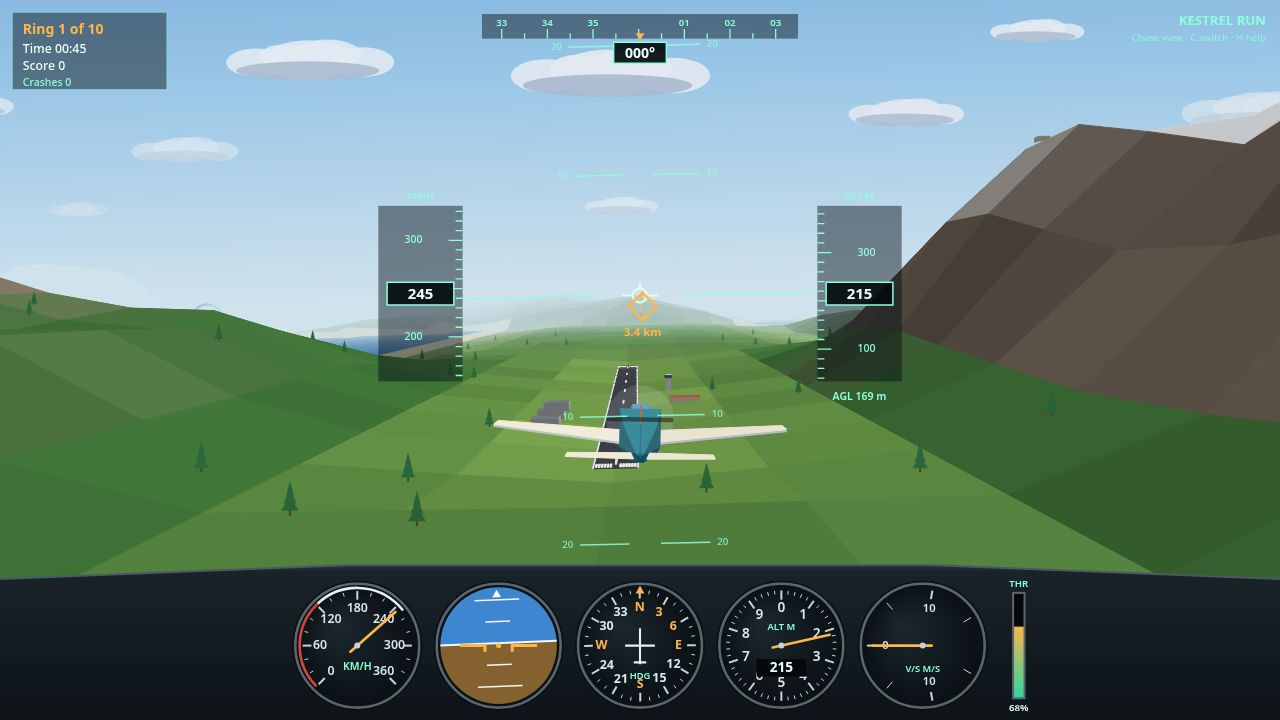
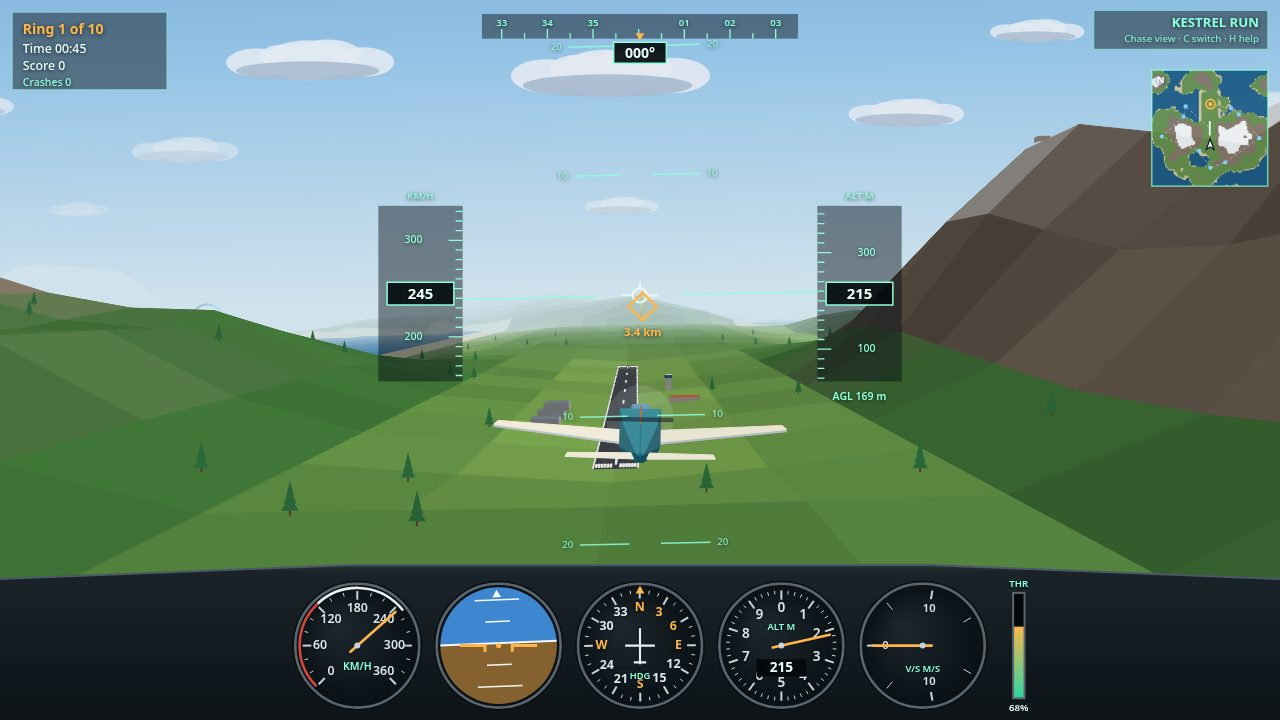
Kestrel Run v3: minimap, PULL UP warning, non-negative tapes, HUD shadow, re-scored staged scenes

Changed region(s): [[0.8438, 0.0, 1.0, 0.275], [0.0312, 0.0306, 0.0625, 0.0917]]

diff --git a/game/game.js b/game/game.js
@@ -1299,6 +1299,142 @@ function drawFrame(ctx, S) {
   return view;
 }
 
+/* ---------------- minimap and PULL UP ---------------- */
+
+// The minimap picture is painted once into an offscreen canvas and reused
+// every frame; only the route, the ring marks and the plane arrow move.
+let mapPic = null;
+
+/** North-up island picture: sea, sand, grass, rock and snow from groundHeight. */
+function paintMapPicture(S) {
+  let half = 3200;
+  for (const r of S.course) half = Math.max(half, Math.abs(r.x), Math.abs(r.z));
+  half = Math.ceil((half * 1.15) / 100) * 100;
+  const N = 96;
+  const map = document.createElement('canvas');
+  map.width = N;
+  map.height = N;
+  const c2 = map.getContext('2d');
+  const img = c2.createImageData(N, N);
+  for (let j = 0; j < N; j += 1) {
+    for (let i = 0; i < N; i += 1) {
+      const x = ((i + 0.5) / N * 2 - 1) * half;
+      const z = (1 - (j + 0.5) / N * 2) * half;
+      const h = groundHeight(x, z);
+      let col;
+      if (h <= 0.2) col = [24, 88, 132];
+      else if (h < 12) col = [210, 196, 152];
+      else if (h < 150) col = [96, 140, 74];
+      else if (h < 360) col = [128, 116, 102];
+      else col = [238, 242, 246];
+      const k = (j * N + i) * 4;
+      img.data[k] = col[0];
+      img.data[k + 1] = col[1];
+      img.data[k + 2] = col[2];
+      img.data[k + 3] = 255;
+    }
+  }
+  c2.putImageData(img, 0, 0);
+  return { map, half };
+}
+
+function drawMinimap(ctx, U, S, W) {
+  if (!mapPic) mapPic = paintMapPicture(S);
+  const size = 132 * U;
+  const x0 = W - 14 * U - size;
+  const y0 = 80 * U;
+  const px = (x) => x0 + (clamp(x / mapPic.half, -1, 1) * 0.5 + 0.5) * size;
+  const pz = (z) => y0 + (0.5 - clamp(z / mapPic.half, -1, 1) * 0.5) * size;
+  const m = S.mission;
+  const p = S.plane;
+  ctx.save();
+  ctx.globalAlpha = 0.92;
+  ctx.drawImage(mapPic.map, x0, y0, size, size);
+  ctx.globalAlpha = 1;
+  ctx.beginPath();
+  ctx.rect(x0, y0, size, size);
+  ctx.clip();
+  // Runway: a short white bar on the centreline.
+  ctx.strokeStyle = '#f4f8fa';
+  ctx.lineWidth = 2 * U;
+  ctx.beginPath();
+  ctx.moveTo(px(0), pz(-WORLD.RUNWAY_HALF_LEN));
+  ctx.lineTo(px(0), pz(WORLD.RUNWAY_HALF_LEN));
+  ctx.stroke();
+  // Dashed route: ring to ring, then home to the strip.
+  ctx.strokeStyle = 'rgba(255,255,255,0.4)';
+  ctx.lineWidth = 1;
+  ctx.setLineDash([3 * U, 3 * U]);
+  ctx.beginPath();
+  S.course.forEach((r, i) => {
+    if (i === 0) ctx.moveTo(px(r.x), pz(r.z));
+    else ctx.lineTo(px(r.x), pz(r.z));
+  });
+  ctx.lineTo(px(0), pz(0));
+  ctx.stroke();
+  ctx.setLineDash([]);
+  // Ring marks: cleared green, next one amber and pulsing, rest pale blue.
+  const pulse = (1 + Math.sin(S.now * 0.006)) / 2;
+  S.course.forEach((r, i) => {
+    const cx = px(r.x);
+    const cy = pz(r.z);
+    if (i < m.cleared) {
+      ctx.fillStyle = '#63dc92';
+      ctx.beginPath();
+      ctx.arc(cx, cy, 2.6 * U, 0, TAU);
+      ctx.fill();
+    } else if (i === m.cleared) {
+      ctx.strokeStyle = '#ffb54a';
+      ctx.lineWidth = 2 * U;
+      ctx.beginPath();
+      ctx.arc(cx, cy, (3.6 + 1.8 * pulse) * U, 0, TAU);
+      ctx.stroke();
+      ctx.fillStyle = '#ffb54a';
+      ctx.beginPath();
+      ctx.arc(cx, cy, 2.4 * U, 0, TAU);
+      ctx.fill();
+    } else {
+      ctx.fillStyle = '#7fd2ff';
+      ctx.beginPath();
+      ctx.arc(cx, cy, 2.4 * U, 0, TAU);
+      ctx.fill();
+    }
+  });
+  // Plane arrow, rotated so its nose follows the heading (north is up).
+  ctx.save();
+  ctx.translate(px(p.x), pz(p.z));
+  ctx.rotate(p.yaw);
+  ctx.fillStyle = '#ffffff';
+  ctx.strokeStyle = '#0b1620';
+  ctx.lineWidth = 1.2;
+  ctx.beginPath();
+  ctx.moveTo(0, -7 * U);
+  ctx.lineTo(4.4 * U, 5 * U);
+  ctx.lineTo(0, 2 * U);
+  ctx.lineTo(-4.4 * U, 5 * U);
+  ctx.closePath();
+  ctx.fill();
+  ctx.stroke();
+  ctx.restore();
+  ctx.restore();
+  ctx.strokeStyle = 'rgba(141,255,217,0.7)';
+  ctx.lineWidth = 1.5;
+  ctx.strokeRect(x0, y0, size, size);
+  text(ctx, 'N', x0 + 10 * U, y0 + 11 * U, 11 * U, '#ffffff', 'center', 700);
+}
+
+/** Big red PULL UP while the ground is only seconds away at the current sink. */
+function drawPullUp(ctx, U, S, W, H) {
+  const p = S.plane;
+  if (p.onGround || p.crashed > 0) return;
+  const sink = -p.vy;
+  if (sink <= 6) return;
+  const clearance = p.y - groundHeight(p.x, p.z);
+  if (clearance / sink >= 4.5) return;
+  if (Math.sin(S.now * 0.018) < -0.25) return; // blink: mostly on, brief gaps
+  text(ctx, 'PULL UP', W / 2, H * 0.31, 34 * U, '#ff5340', 'center', 800);
+}
+
 /* ---------------- cockpit instruments and HUD ---------------- */
 
 const HUD = '#8dffd9';
@@ -1306,15 +1442,22 @@ const AMBER = '#ffb54a';
 const PANEL = 'rgba(5,14,20,0.46)';
 
 function text(ctx, s, x, y, size, color, align = 'center', weight = 600) {
+  ctx.save();
   ctx.font = `${weight} ${size}px system-ui, "Segoe UI", Roboto, Arial, sans-serif`;
   ctx.fillStyle = color;
   ctx.textAlign = align;
   ctx.textBaseline = 'middle';
+  ctx.shadowColor = 'rgba(2,12,18,0.8)';
+  ctx.shadowBlur = 2 + size * 0.22;
+  ctx.shadowOffsetY = 1;
   ctx.fillText(s, x, y);
+  ctx.restore();
 }
 
-/** One scrolling tape (speed or altitude) with a boxed current value. */
-function drawTape(ctx, U, x, y, h, val, minor, major, pxPer, side, label, fmt) {
+/** One scrolling tape (speed or altitude) with a boxed current value.
+ *  floor clamps the tape (and the boxed value) so it never shows a
+ *  negative reading — pass 0 for tapes that sit at zero on the ground. */
+function drawTape(ctx, U, x, y, h, val, minor, major, pxPer, side, label, fmt, floor = -Infinity) {
   const w = 96 * U;
   ctx.save();
   ctx.fillStyle = PANEL;
@@ -1322,7 +1465,7 @@ function drawTape(ctx, U, x, y, h, val, minor, major, pxPer, side, label, fmt) {
   ctx.beginPath();
   ctx.rect(x - w / 2, y - h / 2, w, h);
   ctx.clip();
-  const lo = val - h / 2 / pxPer;
+  const lo = Math.max(val - h / 2 / pxPer, floor);
   const hi = val + h / 2 / pxPer;
   ctx.strokeStyle = HUD;
   ctx.lineWidth = 1.3;
@@ -1350,7 +1493,7 @@ function drawTape(ctx, U, x, y, h, val, minor, major, pxPer, side, label, fmt) {
   ctx.rect(x - 38 * U, y - 13 * U, 76 * U, 26 * U);
   ctx.fill();
   ctx.stroke();
-  text(ctx, fmt(val), x, y + 1, 17 * U, '#eafff7', 'center', 700);
+  text(ctx, fmt(Math.max(val, floor)), x, y + 1, 17 * U, '#eafff7', 'center', 700);
   text(ctx, label, x, y - h / 2 - 11 * U, 11 * U, HUD, 'center', 600);
 }
 
@@ -1860,11 +2003,15 @@ function drawHud(ctx, S, view) {
   drawLadder(ctx, U, S, view, skyBottom);
   drawHeadingTape(ctx, U, S, W);
   const tapeY = H * 0.42 - 10 * U;
-  drawTape(ctx, U, CX - 250 * U, tapeY, 200 * U, p.speed * 3.6, 10, 50, 1.1 * U, 1, 'KM/H', (v) => String(Math.round(v)));
-  drawTape(ctx, U, CX + 250 * U, tapeY, 200 * U, p.y, 20, 100, 0.55 * U, -1, 'ALT M', (v) => String(Math.round(v)));
+  drawTape(ctx, U, CX - 250 * U, tapeY, 200 * U, p.speed * 3.6,
+    10, 50, 1.1 * U, 1, 'KM/H', (v) => String(Math.round(v)), 0);
+  drawTape(ctx, U, CX + 250 * U, tapeY, 200 * U, p.y,
+    20, 100, 0.55 * U, -1, 'ALT M', (v) => String(Math.round(v)), 0);
   const agl = Math.max(0, p.y - groundHeight(p.x, p.z) - 1);
   text(ctx, `AGL ${Math.round(agl)} m`, CX + 250 * U, tapeY + 118 * U, 12 * U, HUD, 'center', 600);
   drawGuidance(ctx, U, S, view, W, H);
+  drawMinimap(ctx, U, S, W);
+  drawPullUp(ctx, U, S, W, H);
   // Mission panel.
   ctx.fillStyle = PANEL;
   ctx.fillRect(14 * U, 14 * U, 176 * U, 88 * U);
@@ -1875,8 +2022,13 @@ function drawHud(ctx, S, view) {
   text(ctx, `Time ${formatTime(m.time)}`, 26 * U, 56 * U, 14 * U, '#eafff7', 'left', 500);
   text(ctx, `Score ${m.score}`, 26 * U, 76 * U, 14 * U, '#eafff7', 'left', 500);
   text(ctx, `Crashes ${m.crashes}`, 26 * U, 94 * U, 12 * U, HUD, 'left', 500);
-  text(ctx, 'KESTREL RUN', W - 16 * U, 24 * U, 15 * U, HUD, 'right', 700);
-  text(ctx, `${S.view === 'chase' ? 'Chase' : 'Cockpit'} view · C switch · H help`, W - 16 * U, 44 * U, 11 * U, 'rgba(141,255,217,0.75)', 'right', 500);
+  ctx.fillStyle = PANEL;
+  ctx.fillRect(W - 212 * U, 12 * U, 198 * U, 44 * U);
+  ctx.strokeStyle = 'rgba(141,255,217,0.5)';
+  ctx.lineWidth = 1;
+  ctx.strokeRect(W - 212 * U, 12 * U, 198 * U, 44 * U);
+  text(ctx, 'KESTREL RUN', W - 24 * U, 26 * U, 15 * U, HUD, 'right', 700);
+  text(ctx, `${S.view === 'chase' ? 'Chase' : 'Cockpit'} view · C switch · H help`, W - 24 * U, 45 * U, 11 * U, 'rgba(141,255,217,0.85)', 'right', 500);
   if (S.mouse) text(ctx, 'MOUSE STEERING', W - 16 * U, 62 * U, 11 * U, AMBER, 'right', 700);
   // Toast banner.
   if (m.toastT > 0 && m.toast) {
@@ -2104,24 +2256,35 @@ function createAudio() {
 
 /* ---------------- deterministic staged scenes ---------------- */
 
-// The four screenshots are deterministic STAGED scenes (?demo=1..4), not a
-// recording of one played run: each scene is a frozen preset rendered live
-// by the game code, with clock and score kept consistent across the scenes
-// so they read as one sortie in order.
+// The four screenshots are STAGED scenes (?demo=1..4) — frozen presets the
+// game renders live, not frames cut from one played flight. They run in
+// sortie order, and every clock and score on screen is one the real rules
+// can produce:
 //
-//   1-cover   0:45   score 0     ring 1 of 10, chase, just airborne
-//   2-rings   1:35   score 400   ring 4 just cleared (+150), chase,
-//                                 next ring ahead
-//   3-landing 2:20   score 880   8 rings done, seconds from touchdown,
-//                                 runway filling the frame, chase
-//   4-cockpit 3:05   score 1180  all 10 rings done, cockpit, final
-//                                 approach to the runway with land ahead;
-//                                 toast matches: rings done, land next
+//   1-cover   0:45  score 0     just airborne, ring 1 ahead, chase
+//   2-rings   1:35  score 554   ring 4 just cleared (+147), chase,
+//                               ring 5 ahead
+//   3-cockpit 3:05  score 1390  all 10 rings done, cockpit, final
+//                               approach with the strip ahead
+//   4-landing 3:21  score 1390  short final, runway filling the frame
 //
-// Ring values are 100 + a bullseye bonus up to 60, so the totals check out:
-// 4 rings = 400, 8 rings = 880, 10 rings = 1180.
+// A ring pays 100 plus a bullseye bonus of 0..60 (RING_BONUS below is the
+// bonus each staged ring earned), so the totals add up: 4 rings = 554,
+// 10 rings = 1390. The +300 landing bonus is only added once the plane
+// has stopped on the runway, so it is not in these frames.
 
 const DEMO_COUNT = 4;
+const RING_BONUS = [
+  34, 21, 52, 47, 28,
+  60, 39, 23, 45, 41,
+];
+
+/** Score after clearing n rings, from the real rules (100 + bonus each). */
+function scoreForRings(n) {
+  let total = 0;
+  for (let i = 0; i < n; i += 1) total += SCORE.RING + RING_BONUS[i];
+  return total;
+}
 
 function placePlane(S, x, y, z, yaw, pitch, roll, speed, thr) {
   const p = S.plane;
@@ -2132,10 +2295,10 @@ function placePlane(S, x, y, z, yaw, pitch, roll, speed, thr) {
   S.cam.roll = roll * 0.55;
 }
 
-function baseState(S, time, score, cleared) {
+function baseState(S, time, cleared) {
   const m = S.mission;
   m.time = time;
-  m.score = score;
+  m.score = scoreForRings(cleared);
   m.cleared = cleared;
   m.running = true;
   m.done = false;
@@ -2153,13 +2316,13 @@ function baseState(S, time, score, cleared) {
 
 function applyDemo(S, n) {
   if (n === 1) {
-    baseState(S, 45, 0, 0);
+    baseState(S, 45, 0);
     // 3.4 km short of ring 1, climbing away from the strip.
     placePlane(S, 30, 215, -1400, 0.005, -0.02, 0.04, 68, 0.68);
     return;
   }
   if (n === 2) {
-    baseState(S, 95, 400, 4);
+    baseState(S, 95, 4);
     const target = S.course[4];
     const from = S.course[3];
     const yaw = Math.atan2(target.x - from.x, target.z - from.z);
@@ -2174,28 +2337,24 @@ function applyDemo(S, n) {
       target.z - Math.cos(yaw) * 420,
       yaw, 0.0, 0.3, 79, 0.75,
     );
-    S.mission.toast = 'Ring 4 cleared +150';
+    S.mission.toast = `Ring 4 cleared +${SCORE.RING + RING_BONUS[3]}`;
     S.mission.toastT = 2.6;
     return;
   }
   if (n === 3) {
-    baseState(S, 140, 880, 8);
-    // Seconds from touchdown: 260 m out on the centreline, 14 m above the
-    // strip, so the runway fills the frame ahead of the plane.
-    placePlane(S, 10, 26, -260, 0, -0.03, 0, 46, 0.3);
-    S.demoTarget = { x: 0, y: 16, z: 0, kind: 'runway' };
-    S.demoLabel = 'Land on the runway';
-    S.mission.toast = 'Final approach';
+    // Cockpit, all 10 rings done, on final approach with the strip ahead.
+    baseState(S, 185, 10);
+    placePlane(S, 24, 118, -880, 0, -0.02, 0.05, 62, 0.62);
+    S.view = 'cockpit';
+    S.mission.toast = 'All rings done — land on the runway';
     S.mission.toastT = 2.6;
     return;
   }
-  // Demo 4: cockpit, all 10 rings done, on final approach to the runway
-  // with the harbour strip and land ahead — no ring left in front of the
-  // plane, so the toast (rings done, land next) matches the frame.
-  baseState(S, 185, 1180, 10);
-  placePlane(S, 24, 118, -880, 0, -0.02, 0.05, 62, 0.62);
-  S.view = 'cockpit';
-  S.mission.toast = 'All rings done — land on the runway';
+  // Demo 4: short final — 260 m out on the centreline, 14 m above the
+  // strip, so the runway fills the frame ahead of the plane.
+  baseState(S, 201, 10);
+  placePlane(S, 10, 26, -260, 0, -0.03, 0, 46, 0.3);
+  S.mission.toast = 'Short final';
   S.mission.toastT = 2.6;
 }
 

diff --git a/main.ts b/main.ts
@@ -4,7 +4,7 @@
 // library. Node 22+, standard library only, no network, no timestamps and
 // no randomness at run time, so two runs write byte-identical output.
 //
-// v2: the game is one classic script (game/game.js, loaded by a plain
+// v2/v3: the game is one classic script (game/game.js, loaded by a plain
 // <script> tag), so game/index.html opens straight from file:// as well as
 // from a server. This entrypoint refuses a stale layout — a leftover
 // game/src directory or a missing game.js fails the build here, not at

diff --git a/README.md b/README.md
@@ -35,22 +35,32 @@ node serve.ts
 Then open http://localhost:8080 in a browser.
 
 Deterministic staged screenshot scenes: `?demo=1` (takeoff), `?demo=2`
-(rings), `?demo=3` (landing approach, runway in frame), `?demo=4` (cockpit,
-final approach after all 10 rings). The four screenshots are deterministic
-staged scenes rendered live by the game code, with clock and score kept
-consistent across them (0:45 / 0 → 1:35 / 400 → 2:20 / 880 → 3:05 / 1180) —
-not a recording of one played run.
+(rings), `?demo=3` (cockpit, final approach after all 10 rings), `?demo=4`
+(short final, runway filling the frame). The four screenshots are staged
+scenes rendered live by the game code, in chronological order, with clock and
+score that the real scoring rules can produce (0:45 / 0 → 1:35 / 554 after 4
+rings → 3:05 / 1390 after 10 rings → 3:21 / short final) — not a recording of
+one played run.
 
-## v2 changes
+## v3 changes
 
-- Single classic script (`game/game.js`): the game now opens from `file://`
-  with no server and no module/CORS block.
-- Landing scene re-staged close to the runway so the strip fills the frame.
-- Cockpit scene re-staged after the last ring is cleared, on final approach
-  with land ahead; the toast now matches the frame.
-- Pitch ladder clipped to the sky above the instrument panel — no rung or
-  label crosses a dial.
-- Code implemented fresh in-session from the user's design reference.
+- **Minimap** (top right): north-up island picture with the runway, the ring
+  route, cleared / next / remaining rings and the plane's heading.
+- **PULL UP** warning when the ground is under ~4.5 s away at the current sink.
+- Altitude and speed tapes no longer draw negative values on the ground.
+- HUD text has a soft shadow and the title block a backing panel, so it stays
+  readable over clouds and bright terrain.
+- Staged scenes re-ordered and re-scored: cockpit final approach (3:05) now
+  comes before the short-final landing frame (3:21), and every score is
+  computed from the real rules (100 + bullseye bonus per ring).
+- Play-tested in headless Chromium from `file://`: take-off, ring pass,
+  crash + respawn and a full landing to "Mission complete", no console errors.
+
+## Provenance
+
+Built with AI assistance. An earlier single-file prototype of the same game
+informed the design, constants and structure; this is a restructured
+re-implementation of it, not a from-scratch design.
 
 ---
 
